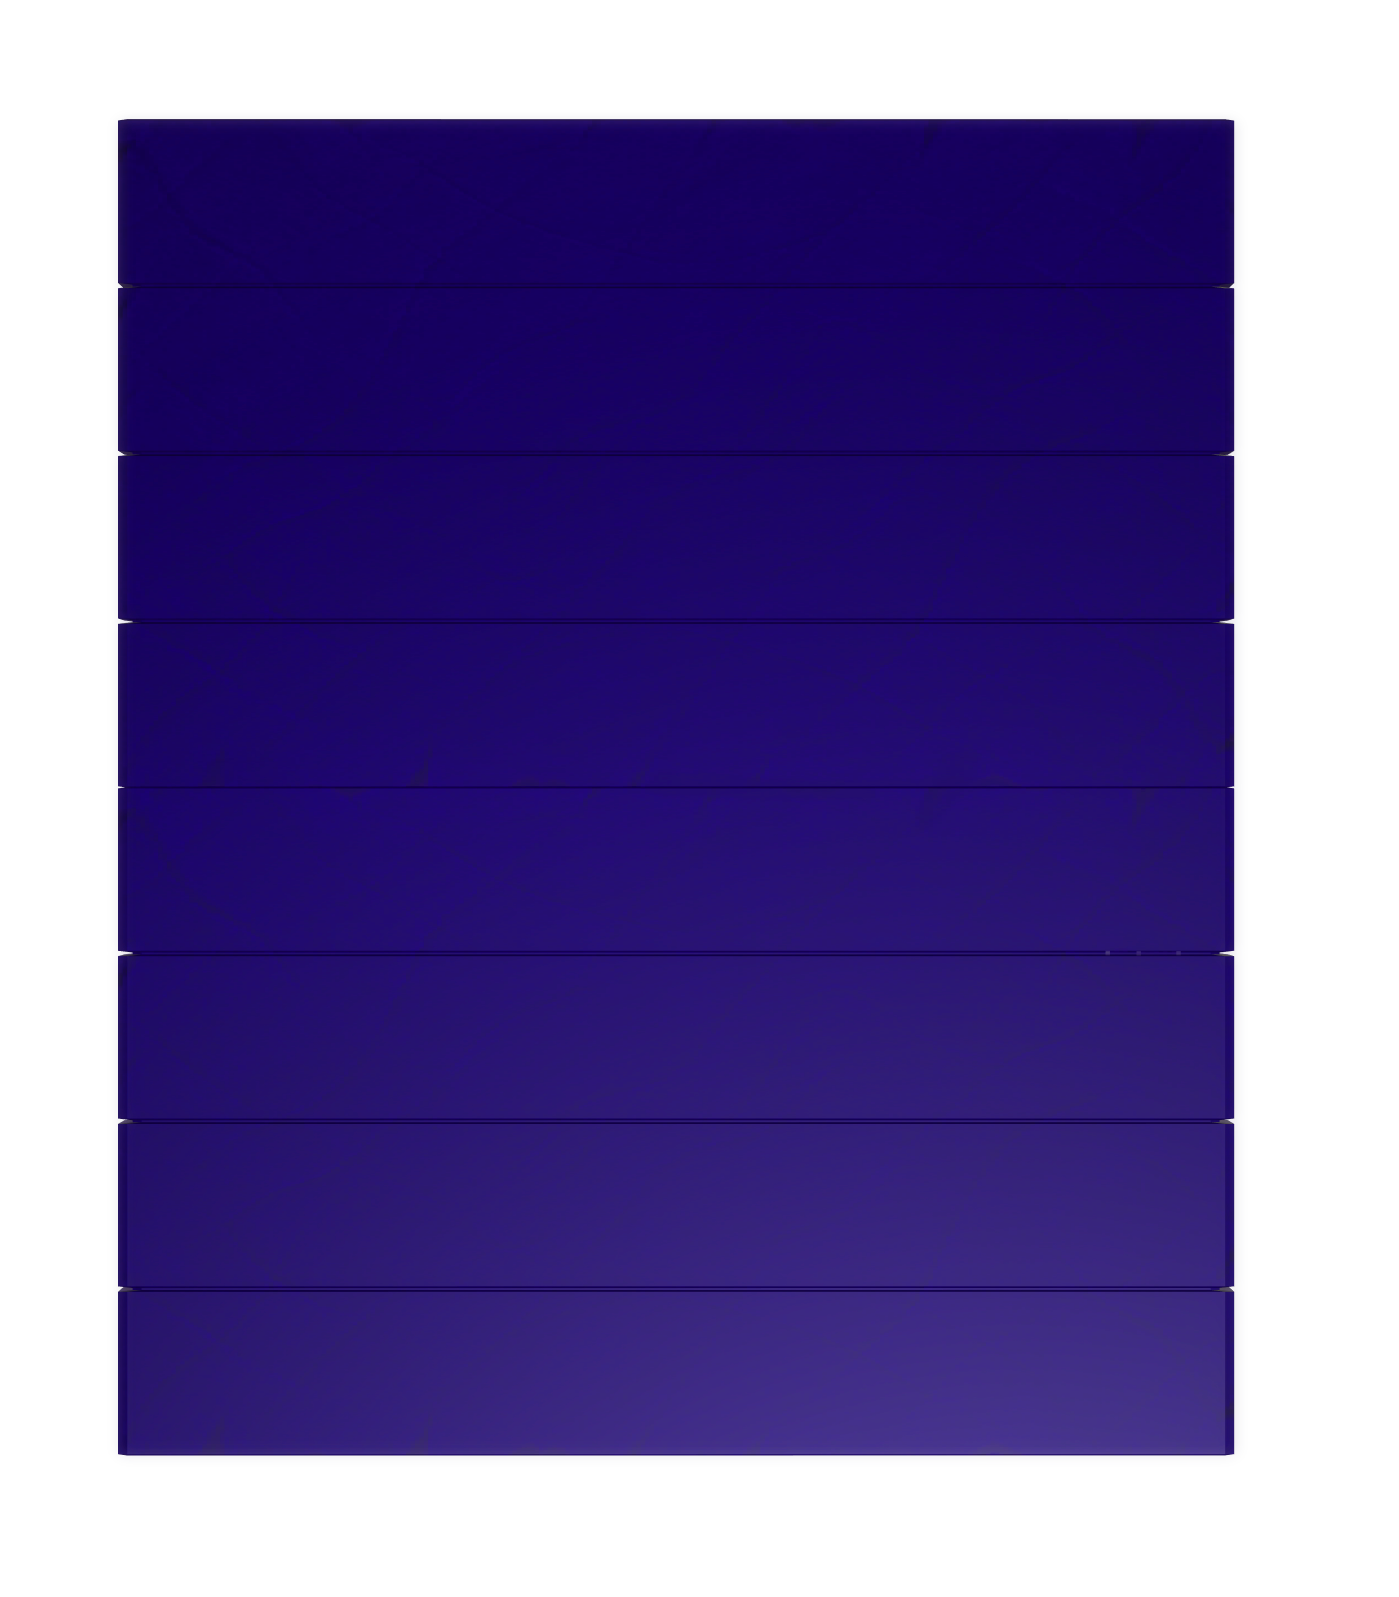
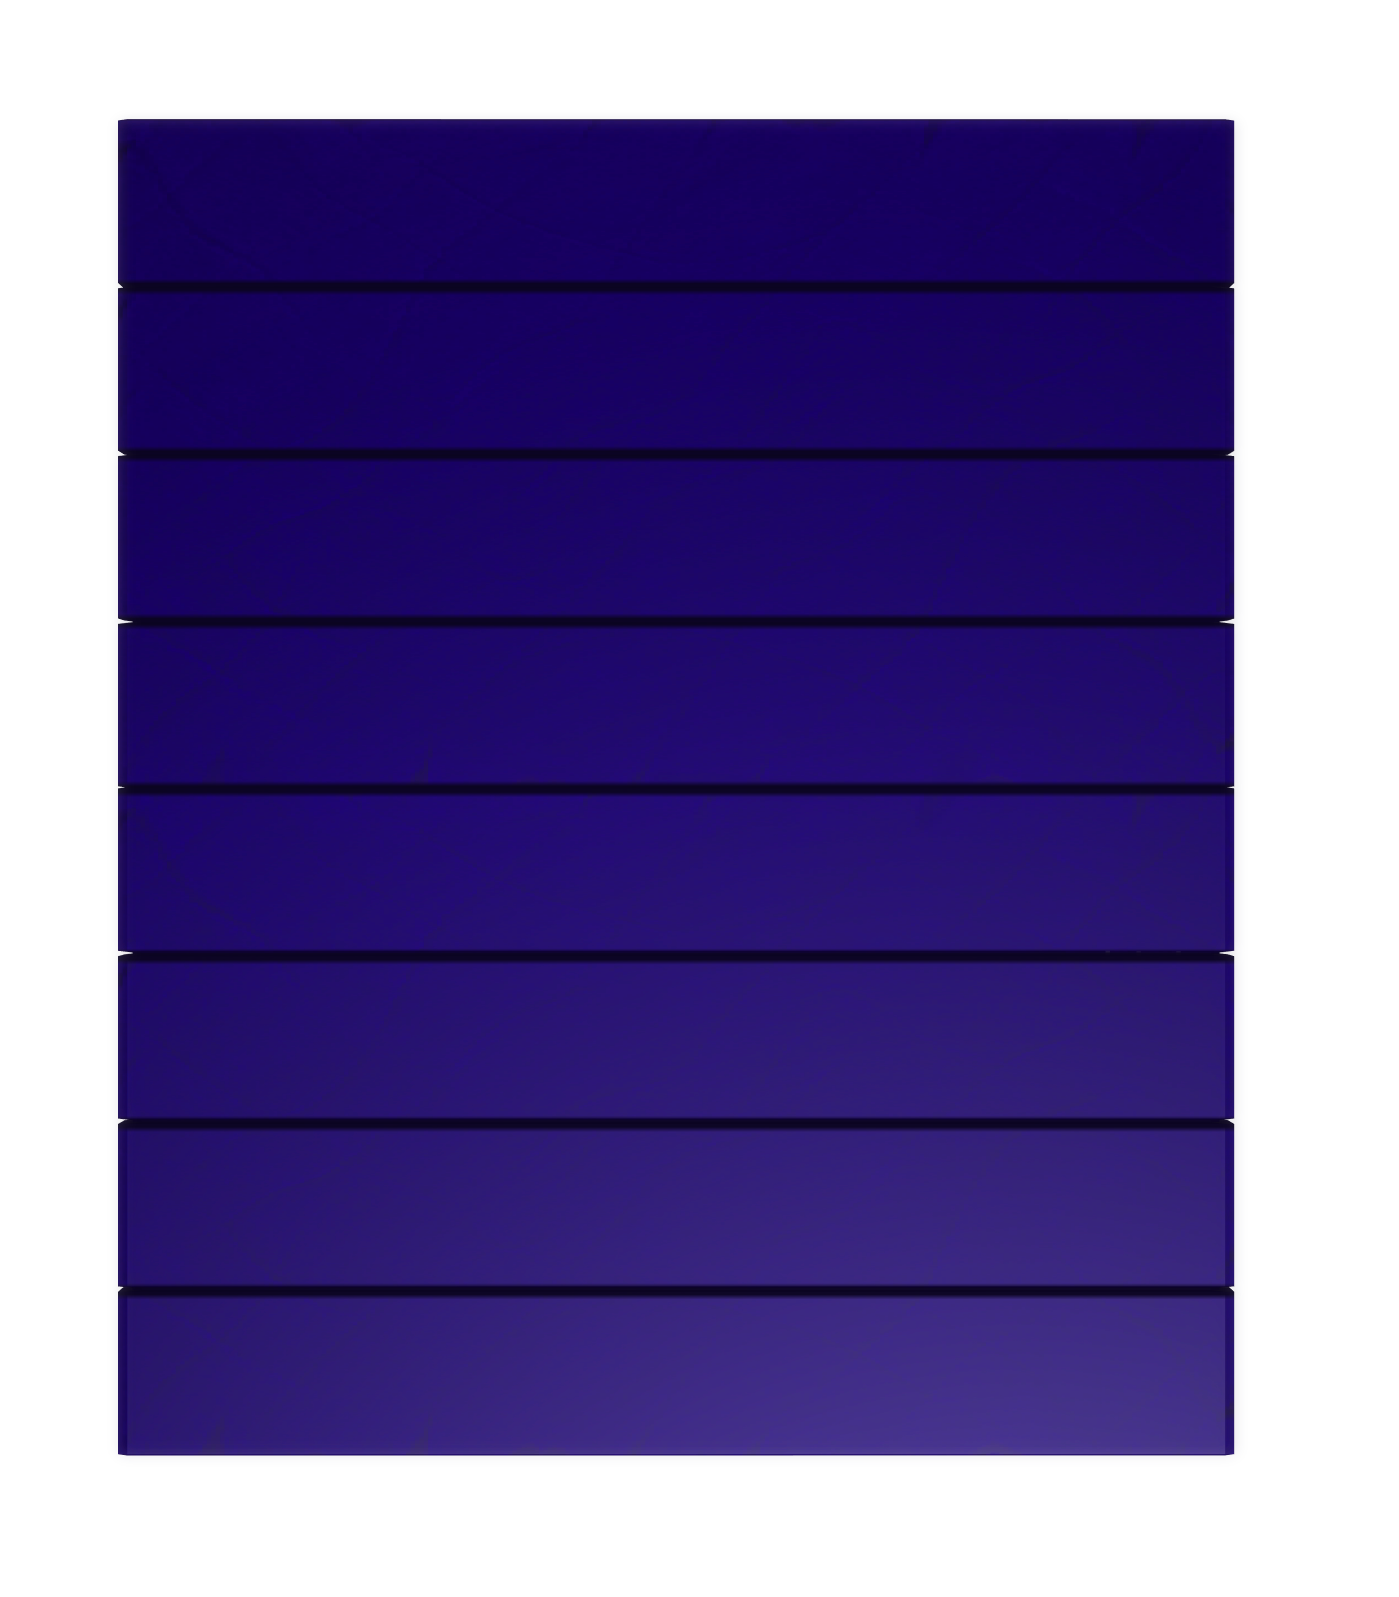
Daily: dark plank seams and 20 pt balanced clues so three clues read as three
Two lines of 24 pt filled each 52 pt plank edge to edge and the gate's
plank lines were about 1 pt, so three clues read as one paragraph (Pete,
on device). Clues are now capped at 20 pt and split into two even lines
(balanceDailyClue), and build_daily_gate.py redraws every plank line as a
3.5 pt dark groove. Gold seams were tried and rejected as too busy.

Claude-Session: https://claude.ai/code/session_01TxB5WRXMWunrcoTTHjrKMD

diff --git a/app/ui/dailyCastleScene.ts b/app/ui/dailyCastleScene.ts
@@ -65,9 +65,10 @@ export const DAILY_GATE_ART = {
 
 /**
  * Canvas points per gate source px, chosen so the three clue planks fill the
- * straight part of the opening: each plank is 52 pt tall, exactly two lines
- * of 24 pt clue text (DAILY_CLUE_FONT). The board overhangs the opening on both sides, where the
- * arch jambs hide it.
+ * straight part of the opening: each plank is 52 pt tall, room for two lines
+ * of 24 pt clue text; DAILY_CLUE_FONT caps clues at 20 so each has air around
+ * it. The board overhangs the opening on both sides, where the arch jambs
+ * hide it.
  */
 export const DAILY_GATE_PLANK_PT = 52;
 export const DAILY_GATE_PT_PER_SRC =
@@ -451,7 +452,10 @@ const BEBAS_ADVANCE_EM: Record<string, number> = {
 const BEBAS_WIDEST_EM = Math.max(...Object.values(BEBAS_ADVANCE_EM));
 
 export const DAILY_CLUE_FONT = {
-  maxSize: 24,
+  // 20, not 24 (Pete, 2026-09-26): two lines of 24 filled the 52 pt plank
+  // edge to edge and three clues read as one paragraph. At 20 each clue has
+  // about 9 pt of plank around it.
+  maxSize: 20,
   // 16 is reached by one clue only ("THE OUTWARD ANGLE WHERE TWO SLOPING ROOF
   // SIDES MEET") in the cartoon castle's 178 pt clue box; every other clue fits at 17+.
   minSize: 16,
@@ -461,6 +465,11 @@ export const DAILY_CLUE_FONT = {
   /** Headroom for rendering differences between platforms. */
   safety: 0.95,
 } as const;
+
+/** Measured width of `text` on one line at `size`, in canvas points. */
+export function dailyClueTextWidth(text: string, size: number): number {
+  return textWidth(text, size);
+}
 
 function textWidth(text: string, size: number): number {
   let em = 0;
@@ -507,6 +516,32 @@ export function fitDailyClueFontSize(text: string, width: number): number {
     if (linesNeeded(text.toUpperCase(), size, usable) <= DAILY_CLUE_FONT.maxLines) return size;
   }
   return DAILY_CLUE_FONT.minSize;
+}
+
+/**
+ * The clue as it is drawn: one line when it fits on one at `size`, otherwise
+ * two lines split at the word break that makes them closest in width, so no
+ * clue ends on a lone word ("HOW YOU MAKE / A BUTTON WORK", not "HOW YOU MAKE
+ * A BUTTON / WORK"). The greedy split is one of the candidates, so a clue that
+ * fits greedily always fits balanced.
+ */
+export function balanceDailyClue(text: string, size: number, width: number): string {
+  const upper = text.toUpperCase();
+  const usable = width * DAILY_CLUE_FONT.safety;
+  if (textWidth(upper, size) <= usable) return upper;
+  const words = upper.split(' ');
+  let best = upper;
+  let bestWidth = Infinity;
+  for (let i = 1; i < words.length; i += 1) {
+    const first = words.slice(0, i).join(' ');
+    const second = words.slice(i).join(' ');
+    const widest = Math.max(textWidth(first, size), textWidth(second, size));
+    if (widest < bestWidth) {
+      bestWidth = widest;
+      best = `${first}\n${second}`;
+    }
+  }
+  return best;
 }
 
 /**

diff --git a/app/ui/dailyCastleScene.test.ts b/app/ui/dailyCastleScene.test.ts
@@ -1,6 +1,8 @@
 import assert from 'node:assert/strict';
 import { DAILY_POOL } from '../game/dailyPool';
 import {
+  balanceDailyClue,
+  dailyClueTextWidth,
   DAILY_CASTLE_ACTION_LABEL_CLEARANCE,
   DAILY_CASTLE_CANVAS,
   DAILY_CASTLE_FLIGHT,
@@ -65,7 +67,9 @@ for (const clueTop of [DAILY_CLUE_TOP_MIN, DAILY_CLUE_TOP_PREFERRED, DAILY_CLUE_
   assert.equal(rects.length, 3);
   for (const [i, clue] of rects.entries()) {
     const twoFullLines = DAILY_CLUE_FONT.maxSize * DAILY_CLUE_FONT.lineHeightRatio * DAILY_CLUE_FONT.maxLines;
-    assert.ok(clue.height >= twoFullLines, `clue ${i + 1} plank is tall enough for two 24 pt lines`);
+    // At least 8 pt of plank around two full lines, so three clues read as
+    // three, not one paragraph (Pete, 2026-09-26).
+    assert.ok(clue.height - twoFullLines >= 8, `clue ${i + 1} plank leaves air around two full lines`);
     assert.ok(clue.y >= DAILY_CLUE_TOP_MIN - 1e-9, `clue ${i + 1} sits below the narrow top of the arch`);
     assert.ok(clue.y + clue.height < openingBottom, `clue ${i + 1} sits above the steps (top ${clueTop})`);
     assert.ok(clue.x >= 126.3 && clue.x + clue.width <= 304, `clue ${i + 1} fits the opening width`);
@@ -165,6 +169,20 @@ for (const clue of DAILY_POOL.flatMap((word) => word.meanings)) {
   assert.ok(size * DAILY_CLUE_FONT.lineHeightRatio * DAILY_CLUE_FONT.maxLines <= clues[0].height, `"${clue}" two lines fit the plank height`);
 }
 assert.equal(fitDailyClueFontSize('TO GRAB ON AND NOT LET GO', DAILY_GATE_CLUE_WIDTH), DAILY_CLUE_FONT.maxSize);
+
+// The drawn clue: one line if it fits on one, otherwise two balanced lines,
+// each inside the box, and the words unchanged.
+for (const clue of DAILY_POOL.flatMap((word) => word.meanings)) {
+  const size = fitDailyClueFontSize(clue, DAILY_GATE_CLUE_WIDTH);
+  const drawn = balanceDailyClue(clue, size, DAILY_GATE_CLUE_WIDTH);
+  const lines = drawn.split('\n');
+  assert.ok(lines.length <= DAILY_CLUE_FONT.maxLines, `"${clue}" draws in at most two lines`);
+  assert.equal(lines.join(' '), clue.toUpperCase().split(' ').join(' '));
+  for (const line of lines) {
+    assert.ok(dailyClueTextWidth(line, size) <= DAILY_GATE_CLUE_WIDTH * DAILY_CLUE_FONT.safety, `"${line}" fits on one line at ${size} pt`);
+  }
+}
+assert.equal(balanceDailyClue('How you make a button work', 20, DAILY_GATE_CLUE_WIDTH), 'HOW YOU MAKE\nA BUTTON WORK');
 
 // Floor coins: on the open courtyard floor (contact line between the step
 // edge and the capstone), inside the screen, never overlapping each other.

diff --git a/app/components/DailyGate.tsx b/app/components/DailyGate.tsx
@@ -9,6 +9,7 @@ import {
 import { FONTS } from '../constants/fonts';
 import {
   DAILY_CLUE_FONT,
+  balanceDailyClue,
   fitDailyClueFontSize,
   type DailyCastleRect,
 } from '../ui/dailyCastleScene';
@@ -119,7 +120,7 @@ export default function DailyGate({
               adjustsFontSizeToFit
               minimumFontScale={0.9}
             >
-              {clue.toUpperCase()}
+              {balanceDailyClue(clue, fontSizes[index], rect.width / scale)}
             </Text>
           </View>
         );

diff --git a/tools/art/build_daily_gate.py b/tools/art/build_daily_gate.py
@@ -7,6 +7,13 @@ moves hue, saturation and mean lightness to the scroll's, and keeps every
 pixel's own lightness offset — the plank lines and grain keep their contrast.
 (A straight histogram match was tried first; it flattened the plank lines.)
 
+Seams (Pete, 2026-09-26): the art's own plank lines are about 1 pt and barely
+darker than the wood, so three clues on the gate read as one paragraph. Every
+plank line across the board is redrawn as a dark groove, SEAM_PT thick, soft at
+its edges. Dark, never gold: gold made the door too busy. Plank positions are
+dailyCastleScene's DAILY_GATE_ART (first line 119 px, pitch 167.4 px, board x
+107-1248 px); change both together.
+
 Rerun after any change to either source:
     python3 tools/art/build_daily_gate.py   (needs Pillow and numpy)
 """
@@ -18,6 +25,15 @@ ROOT = Path(__file__).resolve().parents[2]
 GATE = ROOT / "assets/images/dailycastle/gate2.png"
 SCROLL = ROOT / "assets/images/textures/scroll_paper.png"
 OUT = ROOT / "assets/images/dailycastle/gate_scroll.png"
+
+FIRST_LINE_SRC = 119
+PLANK_PITCH_SRC = 167.4
+PLANK_COUNT = 8
+BOARD_X_SRC = (107, 1248)
+PT_PER_SRC = 52 / PLANK_PITCH_SRC   # DAILY_GATE_PLANK_PT / plankPitchSrc
+SEAM_PT = 3.5                       # groove thickness, canvas pt (Pete: dark and a little thicker)
+SEAM_RGB = (10, 4, 30)              # near background-deep, a shade of the wood's own hue
+SEAM_EDGE_SRC = 2.5                 # soft falloff each side, source px
 
 
 def rgb_to_hls(rgb):
@@ -57,6 +73,20 @@ def stats(path):
     return np.median(h), l.mean(), s.mean()
 
 
+def seams(rgb):
+    """Dark grooves on every plank line between the board's two edges."""
+    ys = np.arange(rgb.shape[0], dtype=float)[:, None]
+    half = SEAM_PT / PT_PER_SRC / 2
+    cover = np.zeros(rgb.shape[:2])
+    for i in range(1, PLANK_COUNT):
+        d = np.abs(ys - (FIRST_LINE_SRC + PLANK_PITCH_SRC * i))
+        cover = np.maximum(cover, np.clip((half + SEAM_EDGE_SRC - d) / (2 * SEAM_EDGE_SRC), 0, 1))
+    cover[:, : BOARD_X_SRC[0]] = 0
+    cover[:, BOARD_X_SRC[1] + 1 :] = 0
+    cover = cover[..., None] * 0.92
+    return rgb * (1 - cover) + np.array(SEAM_RGB) / 255 * cover
+
+
 def main() -> None:
     g_h, g_l, g_s = stats(GATE)
     s_h, s_l, s_s = stats(SCROLL)
@@ -66,6 +96,7 @@ def main() -> None:
     l = np.clip(l + (s_l - g_l), 0, 1)
     s = np.clip(s * (s_s / g_s), 0, 1)
     rgb = np.clip(hls_to_rgb(h, l, s), 0, 1)
+    rgb = seams(rgb)
     out = np.concatenate([rgb, gate[..., 3:]], -1)
     Image.fromarray((out * 255 + 0.5).astype(np.uint8), "RGBA").save(OUT, optimize=True)
     print(f"gate hue {g_h*360:.0f} -> {s_h*360:.0f}, lightness {g_l:.3f} -> {s_l:.3f}, "

diff --git a/CLAUDE.md b/CLAUDE.md
@@ -139,7 +139,9 @@ sequence are in `docs/DAILY_CHALLENGE_SPEC.md`. Rebuilt on branch `daily-castle-
   `DAILY_CLUE_TOP_MAX` (the planks end above the steps and the gate still covers the crown),
   centred unless the HUD would cover it. The gate helpers (`dailyGateClosed`,
   `dailyGateLineY`, `dailyGateOpenTravel`, `dailyGateMaxSink`, `resolveDailyGateClueRects`)
-  take that clue top. Planks are 52 pt: two lines of 24 pt, exactly. The scene only drops
+  take that clue top. Planks are 52 pt; clues are capped at 20 pt and split into two even lines
+  (`balanceDailyClue`) so each has air on its plank, and `build_daily_gate.py` redraws
+  every plank line as a dark groove (never gold: too busy). The scene only drops
   when even `DAILY_CLUE_TOP_MAX` is under the HUD. The castle has three steps: the build
   script removes the top one and extends the door into its place.
 - Every measured coordinate lives in `app/ui/dailyCastleScene.ts` beside its pixel

diff --git a/docs/DAILY_CHALLENGE_SPEC.md b/docs/DAILY_CHALLENGE_SPEC.md
@@ -32,7 +32,8 @@ The whole Daily screen is a castle: towers and an arch at the top, the gate in t
 carrying the clues, and the six answer blocks set in a framed wall below. The same castle,
 gate shut and blank, stands behind the entry card and Results.
 
-- Clues are painted on the gate, one per plank, and move with it.
+- Clues are painted on the gate, one per plank, and move with it. Dark seams mark every plank;
+  clues are capped at 20 pt and split into two even lines so three clues read as three.
 - A correct UP claim throws the plaque at the castle while the gate lifts.
 - The plaque passes into the arch, goes in behind the gate line and flies off down the tunnel.
 - The gate comes back down carrying the next round's clues while a white-feather coin rises
